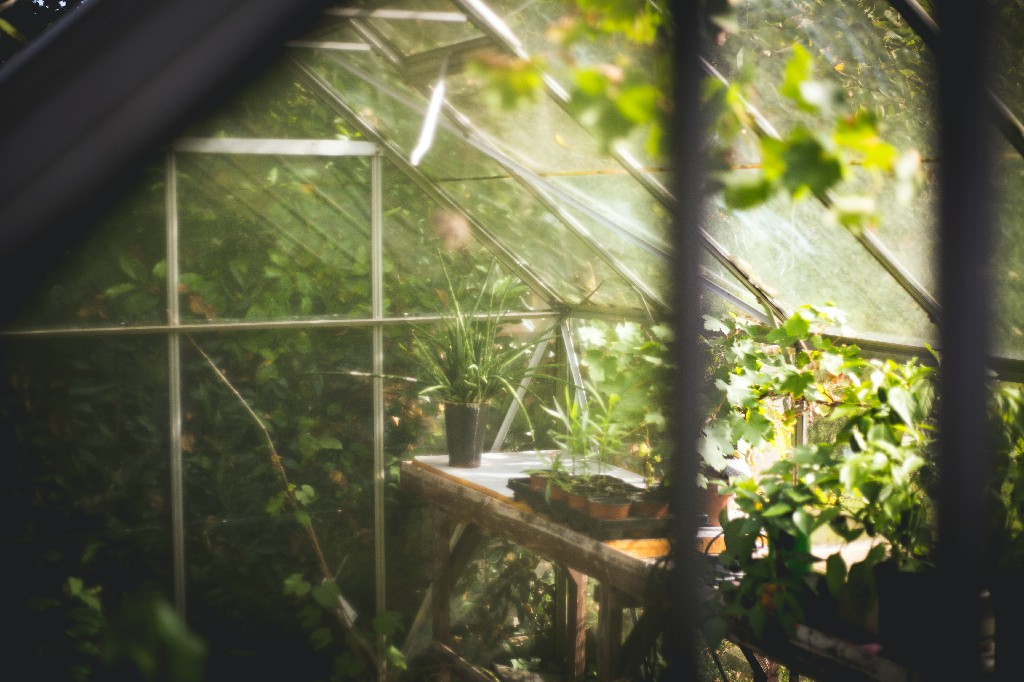
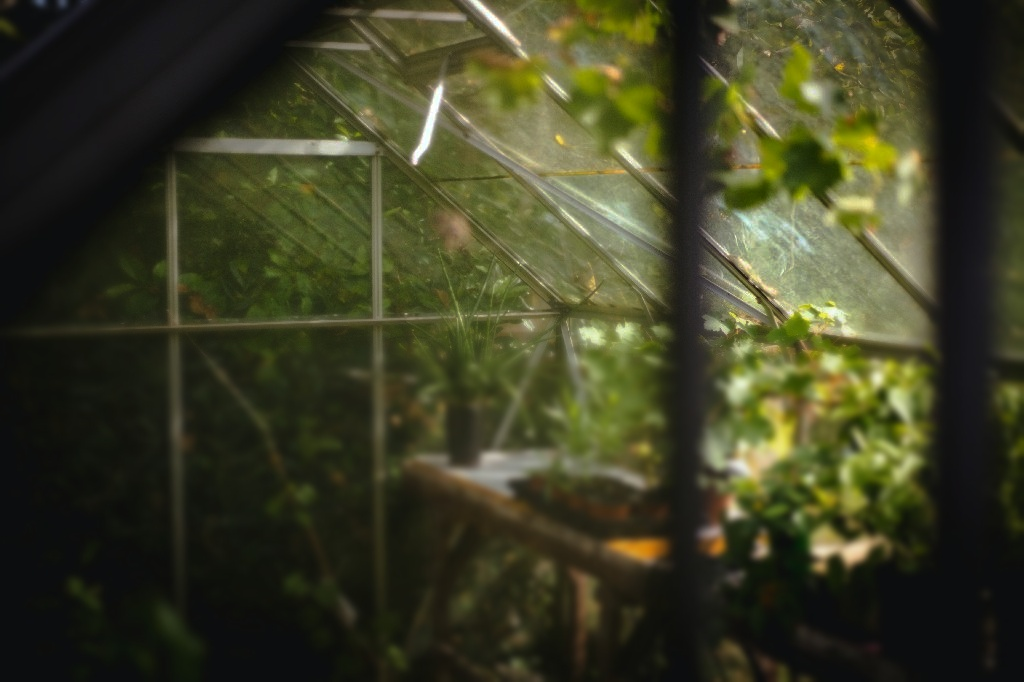
membuat blur pada gambar jumbotron dan menambahkan margin pada ukuran mobile

diff --git a/css/style.css b/css/style.css
@@ -35,7 +35,7 @@ hr {
 }
 
 section {
-  min-height: 600px;
+  min-height: 500px;
 }
 
 .about {
@@ -105,4 +105,12 @@ footer p {
   text-align: center;
   color: #aaa;
   font-size: 1em;
+}
+
+@media only screen and (max-width: 600px) {
+  .jumbotron img {
+    margin-top: 30px;
+    width: 200px;
+    border: 5px solid #ffffff;
+  }
 }

diff --git a/index.html b/index.html
@@ -160,10 +160,6 @@
             Yos Garden membebaskan tamunya untuk memfoto apapun di Jambi Yos
             Garden.
           </p>
-          <p>
-            Anda bisa mengeksplorasi apa yang kami sediakan di website ini
-            melalui menu yang ada di bagian atas.
-          </p>
         </div>
       </div>
     </div>
